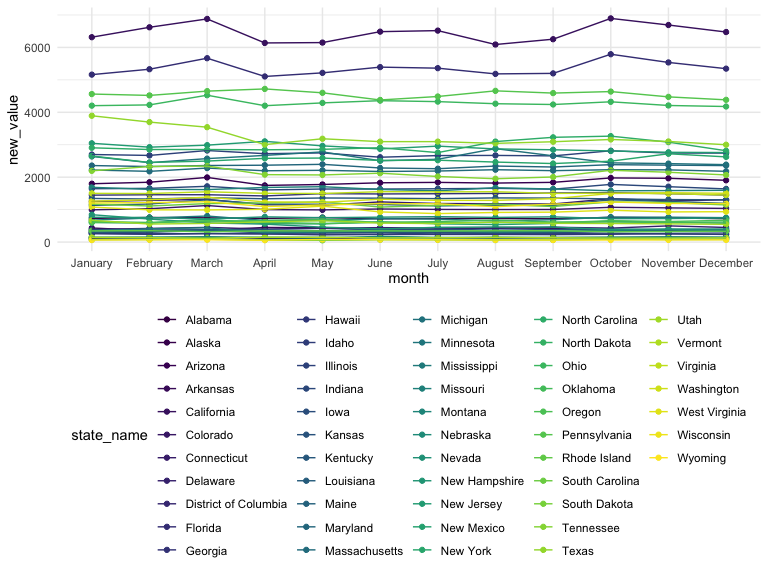
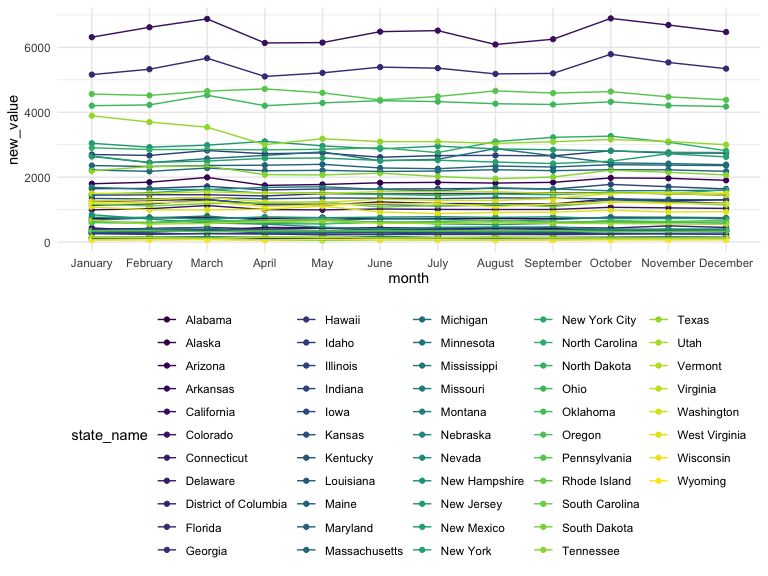
include nyc data, add part V for state-wise analysis

diff --git a/data_cleaning.md b/data_cleaning.md
@@ -15,9 +15,10 @@ library(httr)
 
 **Part I: By state**
 
-We’ve found that instead of having the usual 50 states and Washington
-DC, the data set also contains data for the whole US and the City of New
-York. We choose to focus on the 51 jurisdictions at first.
+We’ve found that instead of having the usual 50 states, Washington DC,
+and New York City, the data set also contains data for the whole US. We
+choose to focus on the 52 jurisdictions (including the 50 states, DC,
+and NYC) at first.
 
 ``` r
 drug_overdose = read_csv("./data/VSRR_Provisional_Drug_Overdose_Death_Counts.csv") %>% 
@@ -38,40 +39,21 @@ unique(pull(drug_overdose, state))
 -   State level:
 
 ``` r
-state_level = c(state.name[1:8], "District of Columbia", state.name[9:50])
+state_level = c(state.name[1:8], "District of Columbia", state.name[9:32],"New York City", state.name[33:50])
 ```
 
 ``` r
-drug_overdose_51 = 
+drug_overdose_52 = 
   drug_overdose %>% 
-  filter(!(state_name %in% c("New York City", "United States"))) %>% 
+  filter(!(state_name %in% c("United States"))) %>% 
   relocate(state_name) %>% 
   mutate(month = factor(month, levels = month.name), # change month and year to factor
-         year = factor(year)) %>% 
+         year = factor(year),
+         state_name = factor(state_name, levels = state_level)) %>% 
   arrange(state_name) %>% 
   group_by(state_name, year) %>% 
   mutate(month = sort(month)) # sort by month order
-
-drug_overdose_51
 ```
-
-    ## # A tibble: 39,825 × 12
-    ## # Groups:   state_name, year [357]
-    ##    state_name state year  month    period          indicator data_value percent_complete
-    ##    <chr>      <chr> <fct> <fct>    <chr>           <chr>          <dbl> <chr>           
-    ##  1 Alabama    AL    2015  January  12 month-ending Number o…    50565   100             
-    ##  2 Alabama    AL    2015  January  12 month-ending Percent …       49.3 100             
-    ##  3 Alabama    AL    2015  January  12 month-ending Number o…      738   100             
-    ##  4 Alabama    AL    2015  February 12 month-ending Number o…      736   100             
-    ##  5 Alabama    AL    2015  February 12 month-ending Number o…    50930   100             
-    ##  6 Alabama    AL    2015  February 12 month-ending Percent …       46.9 100             
-    ##  7 Alabama    AL    2015  March    12 month-ending Percent …       49.6 100             
-    ##  8 Alabama    AL    2015  March    12 month-ending Number o…      720   100             
-    ##  9 Alabama    AL    2015  March    12 month-ending Number o…    50870   100             
-    ## 10 Alabama    AL    2015  April    12 month-ending Number o…    50004   100             
-    ## # … with 39,815 more rows, and 4 more variables:
-    ## #   percent_pending_investigation <dbl>, footnote <chr>, footnote_symbol <chr>,
-    ## #   predicted_value <dbl>
 
 -   Since the dataset mostly doesn’t have the death count values for
     specific types of drug overdose, for this dataset, we only choose
@@ -85,27 +67,27 @@ drug_overdose_51
 # percentage of drugs specified (text describe)
 
 drug_overdose_death = 
-  drug_overdose_51 %>% 
+  drug_overdose_52 %>% 
   select(-c(state, footnote_symbol, percent_complete, period, percent_pending_investigation, predicted_value)) %>% 
   filter(indicator %in% c("Number of Deaths", "Percent with drugs specified", "Number of Drug Overdose Deaths"))
 drug_overdose_death
 ```
 
-    ## # A tibble: 11,475 × 6
-    ## # Groups:   state_name, year [357]
+    ## # A tibble: 11,856 × 6
+    ## # Groups:   state_name, year [364]
     ##    state_name year  month    indicator                      data_value footnote 
-    ##    <chr>      <fct> <fct>    <chr>                               <dbl> <chr>    
+    ##    <fct>      <fct> <fct>    <chr>                               <dbl> <chr>    
     ##  1 Alabama    2015  January  Number of Deaths                  50565   Numbers …
     ##  2 Alabama    2015  January  Percent with drugs specified         49.3 Numbers …
     ##  3 Alabama    2015  January  Number of Drug Overdose Deaths      738   Numbers …
-    ##  4 Alabama    2015  February Number of Drug Overdose Deaths      736   Numbers …
-    ##  5 Alabama    2015  February Number of Deaths                  50930   Numbers …
-    ##  6 Alabama    2015  February Percent with drugs specified         46.9 Numbers …
-    ##  7 Alabama    2015  March    Percent with drugs specified         49.6 Numbers …
-    ##  8 Alabama    2015  March    Number of Drug Overdose Deaths      720   Numbers …
-    ##  9 Alabama    2015  March    Number of Deaths                  50870   Numbers …
-    ## 10 Alabama    2015  April    Number of Deaths                  50004   Numbers …
-    ## # … with 11,465 more rows
+    ##  4 Alabama    2015  February Percent with drugs specified         46.9 Numbers …
+    ##  5 Alabama    2015  February Number of Drug Overdose Deaths      736   Numbers …
+    ##  6 Alabama    2015  February Number of Deaths                  50930   Numbers …
+    ##  7 Alabama    2015  March    Number of Drug Overdose Deaths      720   Numbers …
+    ##  8 Alabama    2015  March    Number of Deaths                  50870   Numbers …
+    ##  9 Alabama    2015  March    Percent with drugs specified         49.6 Numbers …
+    ## 10 Alabama    2015  April    Number of Drug Overdose Deaths      723   Numbers …
+    ## # … with 11,846 more rows
 
 -   `Number of Drug Overdose Deaths` is predicted since the
     `Percent with drugs specified` is not 100%.
@@ -115,8 +97,8 @@ CREATING DUMMY VARIABLES!!
 
 ``` r
 #unique(pull(drug_overdose_51, footnote))
-drug_overdose_51 = 
-  drug_overdose_51 %>%
+drug_overdose_52 = 
+  drug_overdose_52 %>%
   mutate(low_data_quality = ifelse(str_detect(footnote, "low data quality"), 1, 0), # data_value not shown, predicted yes?
          suppressed = ifelse(str_detect(footnote, "suppressed"), 1, 0),
          underreported = ifelse(str_detect(footnote, "Underreported"), 1, 0)) %>% 
@@ -151,31 +133,31 @@ in the range T36–T50.8.
 
 ``` r
 drug_categories = 
-  drug_overdose_51 %>%
+  drug_overdose_52 %>%
   ungroup() %>% 
   select(-c(state, footnote_symbol, percent_complete, period, percent_pending_investigation, footnote, predicted_value)) %>% 
   filter(str_detect(indicator, "T4"))
 drug_categories
 ```
 
-    ## # A tibble: 28,350 × 8
+    ## # A tibble: 29,412 × 8
     ##    state_name year  month    indicator    data_value low_data_quality suppressed
-    ##    <chr>      <fct> <fct>    <chr>             <dbl>            <dbl>      <dbl>
-    ##  1 Alaska     2015  January  Natural, se…         NA                1          0
+    ##    <fct>      <fct> <fct>    <chr>             <dbl>            <dbl>      <dbl>
+    ##  1 Alaska     2015  January  Natural & s…         NA                1          0
     ##  2 Alaska     2015  January  Natural & s…         NA                1          0
-    ##  3 Alaska     2015  January  Natural & s…         NA                1          0
-    ##  4 Alaska     2015  January  Opioids (T4…         NA                1          0
-    ##  5 Alaska     2015  January  Cocaine (T4…         NA                1          0
-    ##  6 Alaska     2015  January  Synthetic o…         NA                1          0
-    ##  7 Alaska     2015  January  Psychostimu…         NA                1          0
-    ##  8 Alaska     2015  January  Heroin (T40…         NA                1          0
-    ##  9 Alaska     2015  January  Methadone (…         NA                1          1
-    ## 10 Alaska     2015  February Synthetic o…         NA                1          0
-    ## # … with 28,340 more rows, and 1 more variable: underreported <dbl>
+    ##  3 Alaska     2015  January  Natural, se…         NA                1          0
+    ##  4 Alaska     2015  January  Synthetic o…         NA                1          0
+    ##  5 Alaska     2015  January  Heroin (T40…         NA                1          0
+    ##  6 Alaska     2015  January  Methadone (…         NA                1          1
+    ##  7 Alaska     2015  January  Opioids (T4…         NA                1          0
+    ##  8 Alaska     2015  January  Cocaine (T4…         NA                1          0
+    ##  9 Alaska     2015  January  Psychostimu…         NA                1          0
+    ## 10 Alaska     2015  February Natural & s…         NA                1          0
+    ## # … with 29,402 more rows, and 1 more variable: underreported <dbl>
 
 ``` r
 # missing states' data:
-drug_overdose_51 %>% 
+drug_overdose_52 %>% 
   ungroup() %>% 
   select(state_name) %>% 
   unique() %>% 
@@ -184,7 +166,7 @@ drug_overdose_51 %>%
 
     ## # A tibble: 9 × 1
     ##   state_name  
-    ##   <chr>       
+    ##   <fct>       
     ## 1 Alabama     
     ## 2 Arkansas    
     ## 3 Florida     
@@ -252,10 +234,8 @@ predicted_deathrate_bycounty
 ```
 
 ``` r
-unique(pull(predicted_deathrate_bycounty, census_division))
+##unique(pull(predicted_deathrate_bycounty, census_division))
 ```
-
-    ## [1] 2
 
 **Part III: the place that drug overdose happens (death place; injury
 place)** “drug_deaths”
@@ -273,20 +253,20 @@ drug_use_html =
   read_html(url)  # r has imported the html page
 
  # we got the completeness data
-completeness_51 = 
+completeness_52 = 
   drug_use_html %>% 
   html_table()  %>% 
   .[[2]] %>% 
   janitor::clean_names() %>% 
   rename(state_name = reporting_jurisdiction) %>% 
-  filter(!(state_name %in% c("New York City", "United States"))) %>% 
+  filter(!(state_name %in% c( "United States"))) %>% 
   pivot_longer(jan:dec, names_to = "month", values_to = "completeness") %>% 
   mutate(month = month.name[match(str_to_title(month), month.abb)],
          month = factor(month, levels = month.name))
-completeness_51 
+completeness_52
 ```
 
-    ## # A tibble: 612 × 3
+    ## # A tibble: 624 × 3
     ##    state_name month     completeness
     ##    <chr>      <fct>            <dbl>
     ##  1 Alabama    January           95.6
@@ -299,10 +279,10 @@ completeness_51
     ##  8 Alabama    August            96.5
     ##  9 Alabama    September         97.3
     ## 10 Alabama    October           98.5
-    ## # … with 602 more rows
+    ## # … with 614 more rows
 
 ``` r
-# try to write a function to apply the completeness value to number_of_death_51.
+# try to write a function to apply the completeness value to number_of_death_52.
 data_imputation = function(original, criteria){
   original = original * ((100 - criteria)/100 + 1)
 }
@@ -313,7 +293,7 @@ a = drug_overdose_death %>%
   select(state_name, year, month, data_value) %>% 
   arrange(state_name, month) %>% 
   ungroup() %>% 
-  mutate(new_value = map2_dbl(.x = data_value, .y = pull(completeness_51, completeness), ~data_imputation(.x, .y)))
+  mutate(new_value = map2_dbl(.x = data_value, .y = pull(completeness_52, completeness), ~data_imputation(.x, .y)))
 
 a %>% 
  # filter(state_name %in% "California") %>%   # uncomment this to see the ggplot for each state
@@ -325,3 +305,18 @@ a %>%
 <img src="data_cleaning_files/figure-gfm/unnamed-chunk-12-1.png" width="90%" />
 
 -   data for the City of New York are all excluded.
+
+**Part V: by state - CA, FL, NYC**
+
+``` r
+drug_categories %>% 
+  filter(state_name %in% c("California", "Florida", "New York City")) %>% 
+  select(state_name) %>% 
+  unique()
+```
+
+    ## # A tibble: 2 × 1
+    ##   state_name   
+    ##   <fct>        
+    ## 1 California   
+    ## 2 New York City
